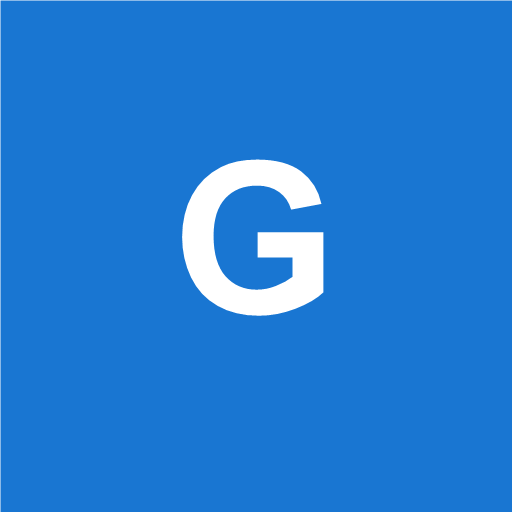
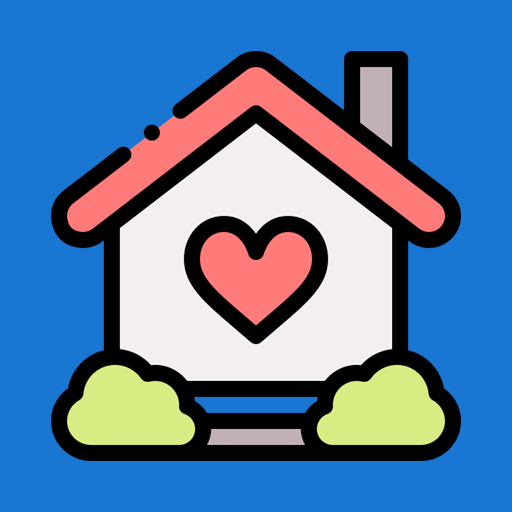
Reemplazar iconos placeholder por iconos propios
- public/icon-{192,512,maskable-512}.png: regenerados desde icon-source.png (maskable con 80% content scale para safe-area de Android)
- public/sw.js: bump CACHE_NAME a v2 + cleanup de caches viejos en activate, para que clientes ya instalados refresquen assets
- .gitignore: excluir icon-source.png (queda local, no se publica)

diff --git a/public/sw.js b/public/sw.js
@@ -1,11 +1,17 @@
-const CACHE_NAME = 'gastos-app-v1'
+const CACHE_NAME = 'gastos-app-v2'
 
 self.addEventListener('install', (event) => {
   self.skipWaiting()
 })
 
 self.addEventListener('activate', (event) => {
-  event.waitUntil(clients.claim())
+  event.waitUntil(
+    (async () => {
+      const keys = await caches.keys()
+      await Promise.all(keys.filter((k) => k !== CACHE_NAME).map((k) => caches.delete(k)))
+      await clients.claim()
+    })()
+  )
 })
 
 self.addEventListener('fetch', (event) => {
